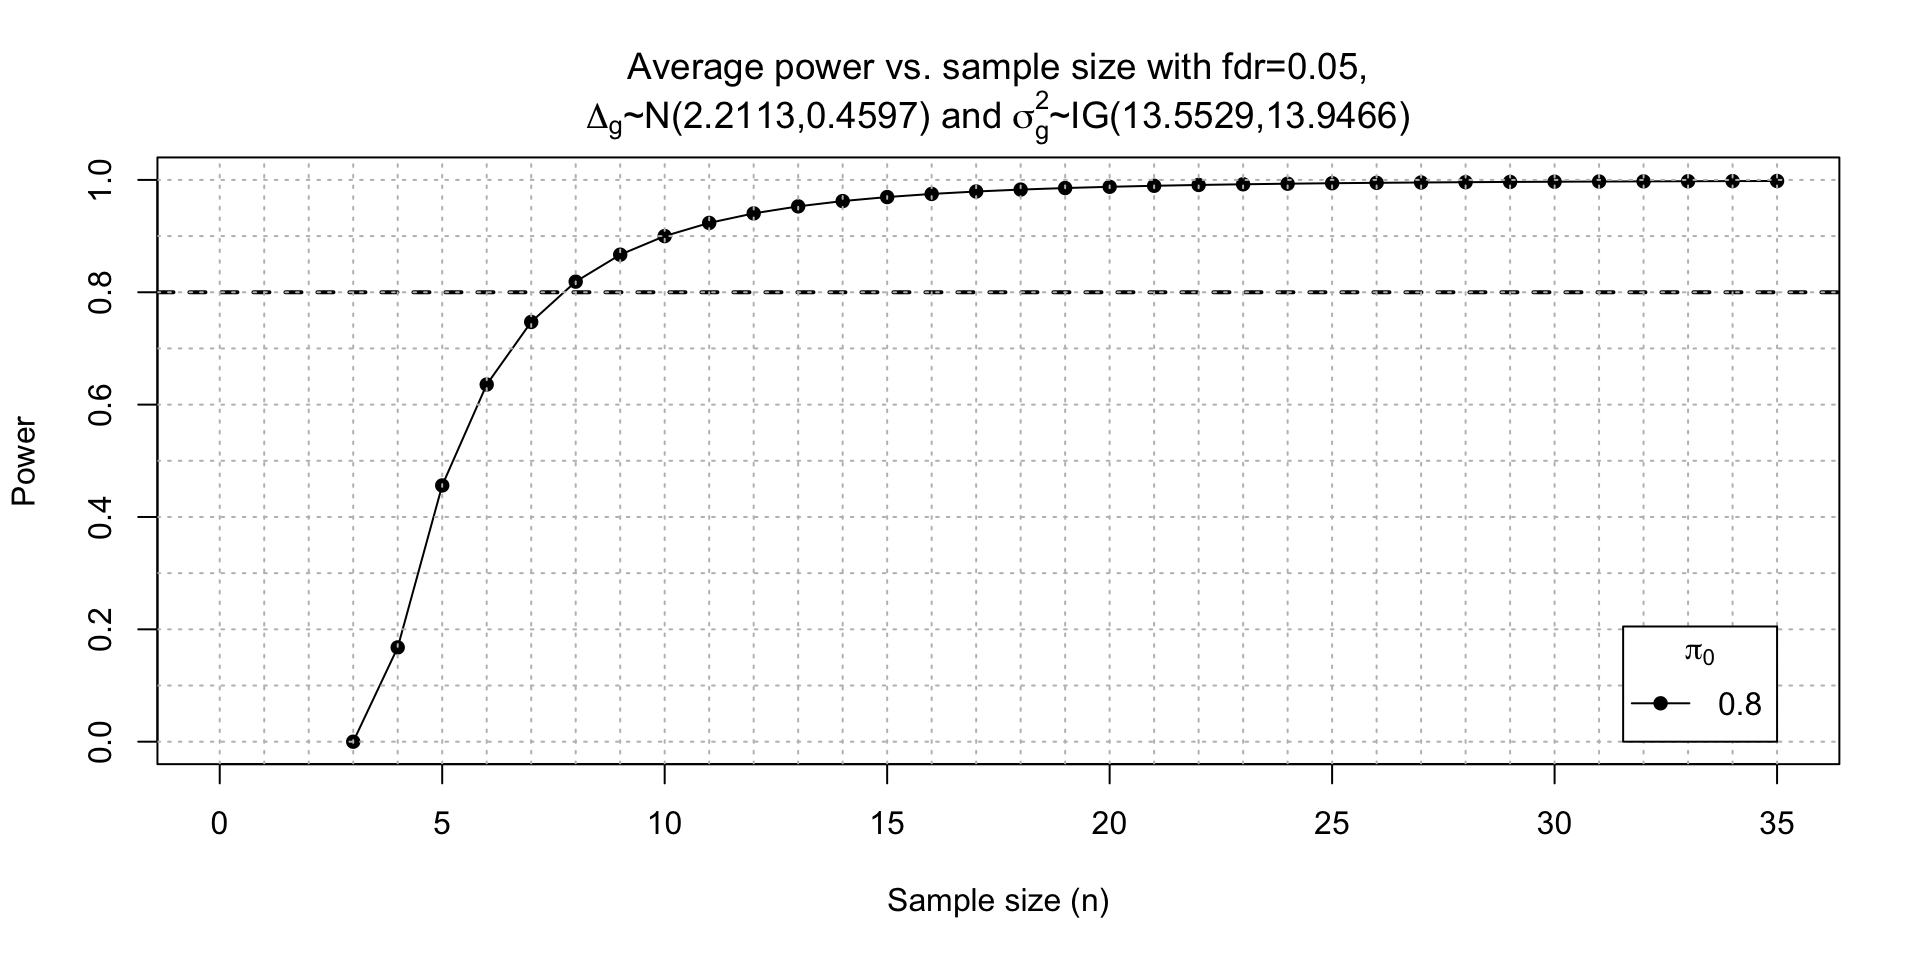
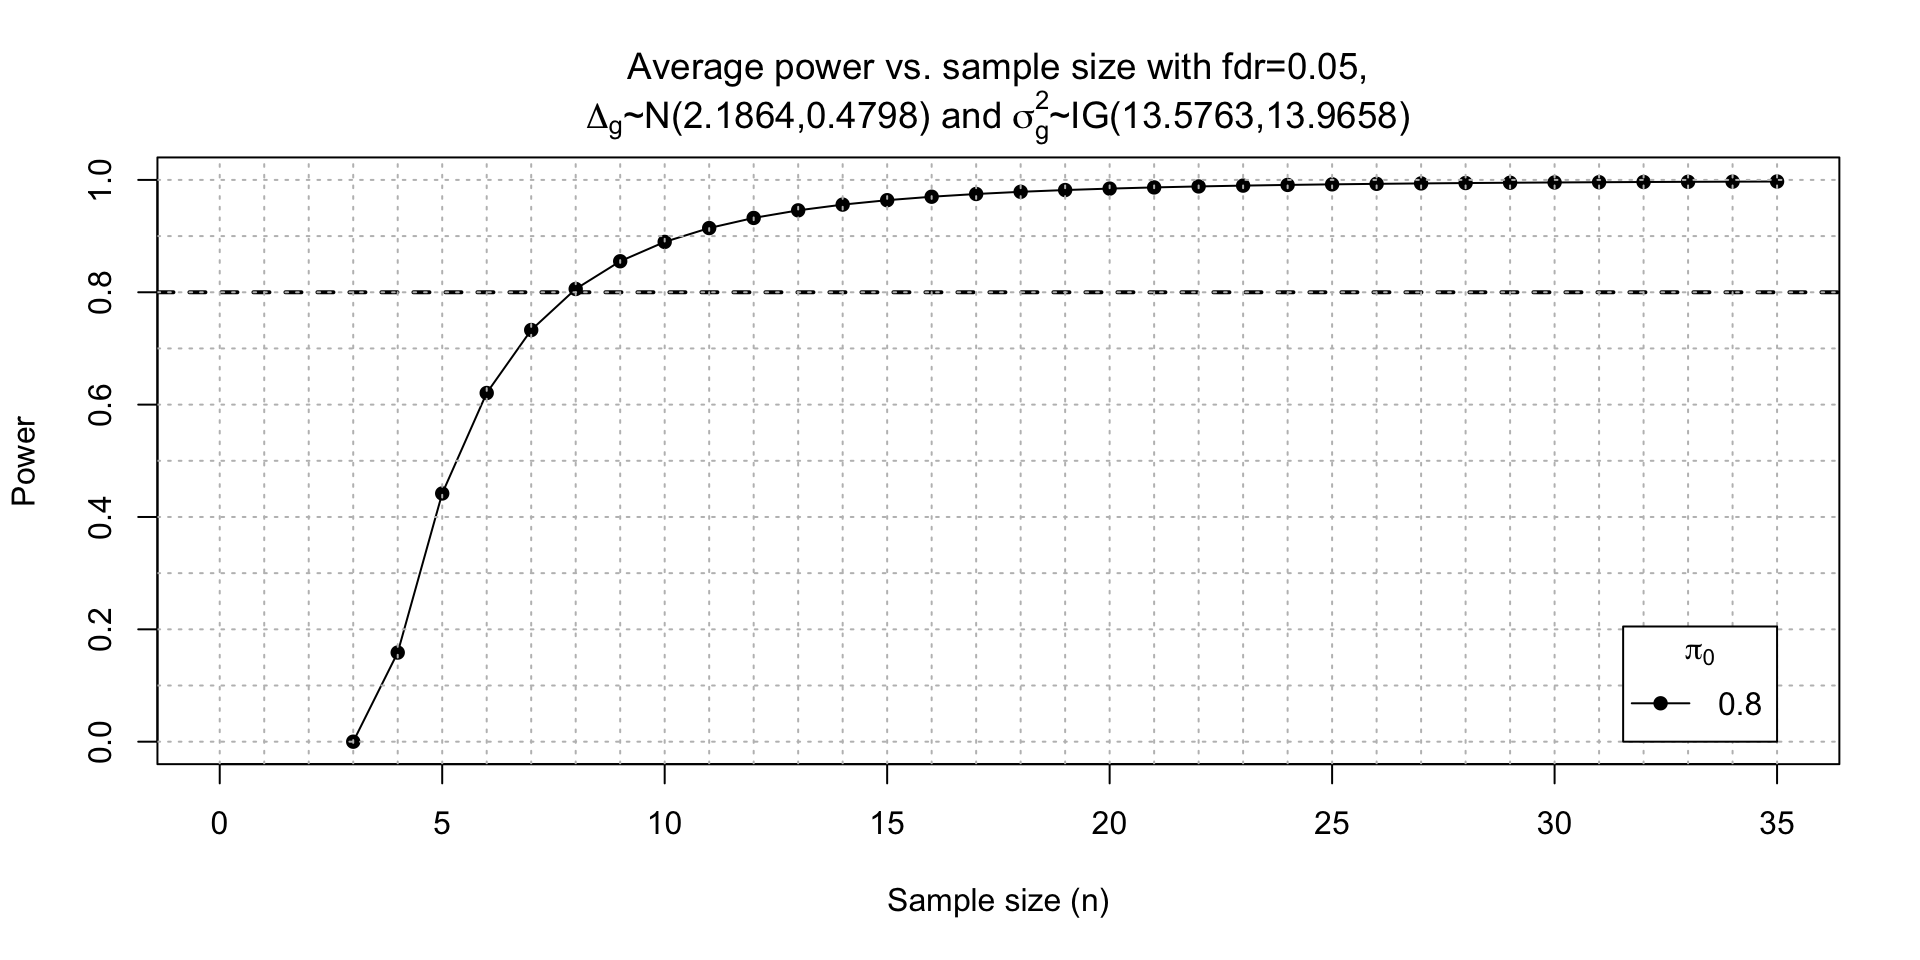
update rnaseq

diff --git a/2023_11_PowerSampleSize_OCTRIBERD_RNAseq/2023_11_pss_rnaseq.html b/2023_11_PowerSampleSize_OCTRIBERD_RNAseq/2023_11_pss_rnaseq.html
@@ -453,14 +453,25 @@ Jessica Minnier
 <li><p>Typically, transcriptomics: gene expression profiling of samples, using next-generation sequencing methods, reference genome</p></li>
 <li><p>RNA-seq can also examine alternative gene spliced transcripts, mutations, levels of other RNA besides messenger RNA, etc, but common aim is to evaluate gene expression measured by mRNA observed in sample tissue</p></li>
 <li><p>“Bulk RNA-seq” to distinguish from single cell RNA-seq, large populations of cells, mixed cell types</p></li>
-<li><p>Alternative method: microarrays, some of the following concepts still apply but distribution of expression measures is not counts, but more related to continuous normal distribution <span class="citation" data-cites="lee2002power">(<a href="#/thank-you" role="doc-biblioref" onclick="">Lee and Whitmore 2002</a>)</span></p></li>
+<li><p>Alternative method: microarrays, some of the following concepts still apply but distribution of expression measures is not count-based, but more related to continuous normal distribution <span class="citation" data-cites="lee2002power">(<a href="#/thank-you" role="doc-biblioref" onclick="">Lee and Whitmore 2002</a>)</span></p></li>
 </ul>
 </section>
 <section id="rna-seq-data-generation" class="slide level2 smaller">
 <h2>RNA-seq data generation</h2>
 <p>NGS or massively parallel sequencing: sample preparation, mRNA fragmentation, reverse transcription to complementary DNA, map cDNA to reference genome</p>
-
-<img data-src="Journal.pcbi.1004393.g002.png" alt="&quot;RNA-seq data generation. A typical RNA-seq experimental workflow involves the isolation of RNA from samples of interest, generation of sequencing libraries, use of a high-throughput sequencer to produce hundreds of millions of short paired-end reads, alignment of reads against a reference genome or transcriptome, and downstream analysis for expression estimation, differential expression, transcript isoform discovery, and other applications. Refer to S1 Table, S3 Table, and S7 Table for more details on the concepts depicted in this figure.&quot; Image taken from Figure 2 in Griffith, Malachi; Walker, Jason R.; Spies, Nicholas C.; Ainscough, Benjamin J.; Griffith, Obi L. (2015). &quot;Informatics for RNA Sequencing: A Web Resource for Analysis on the Cloud&quot;. PLOS Computational Biology. 11 (8): e1004393. doi:10.1371/journal.pcbi.1004393. ISSN 1553-7358." width="1100" class="r-stretch quarto-figure-center"><p><span class="citation" data-cites="griffith2015informatics">(<a href="#/thank-you" role="doc-biblioref" onclick="">Griffith et al. 2015</a>)</span></p>
+<div class="columns">
+<div class="column" style="width:50%;">
+<p><img data-src="Journal.pcbi.1004393.g002.png" alt="&quot;RNA-seq data generation. A typical RNA-seq experimental workflow involves the isolation of RNA from samples of interest, generation of sequencing libraries, use of a high-throughput sequencer to produce hundreds of millions of short paired-end reads, alignment of reads against a reference genome or transcriptome, and downstream analysis for expression estimation, differential expression, transcript isoform discovery, and other applications. Refer to S1 Table, S3 Table, and S7 Table for more details on the concepts depicted in this figure.&quot; Image taken from Figure 2 in Griffith, Malachi; Walker, Jason R.; Spies, Nicholas C.; Ainscough, Benjamin J.; Griffith, Obi L. (2015). &quot;Informatics for RNA Sequencing: A Web Resource for Analysis on the Cloud&quot;. PLOS Computational Biology. 11 (8): e1004393. doi:10.1371/journal.pcbi.1004393. ISSN 1553-7358." width="1100"></p>
+<p><span class="citation" data-cites="griffith2015informatics">(<a href="#/thank-you" role="doc-biblioref" onclick="">Griffith et al. 2015</a>)</span></p>
+</div><div class="column" style="width:50%;">
+<div class="quarto-figure quarto-figure-center">
+<figure>
+<p><a href="https://github.com/hbctraining/DGE_workshop_salmon_online/blob/master/lessons/02_DGE_count_normalization.md"><img data-src="normalization_methods_depth.png"></a></p>
+</figure>
+</div>
+<p><span class="citation" data-cites="meeta_mistry_2021_4783481">(<a href="#/thank-you" role="doc-biblioref" onclick="">Mistry et al. 2021</a>)</span></p>
+</div>
+</div>
 </section>
 <section id="what-does-the-data-look-like" class="slide level2">
 <h2>What does the data look like?</h2>
@@ -698,14 +709,13 @@ Jessica Minnier
 <p>Adapted from <code>ssizeRNA</code> <a href="https://cran.r-project.org/web/packages/ssizeRNA/vignettes/ssizeRNA.pdf">vignette</a> and Suppl Material S1 <span class="citation" data-cites="jeon2023statistical">Jeon et al. (<a href="#/thank-you" role="doc-biblioref" onclick="">2023</a>)</span></p>
 <p>Arguments for <code>ssize_single()</code> function, assuming all genes have the same characteristics:</p>
 <ul>
-<li><p>Total number of genes: <code>G = 10000</code></p></li>
-<li><p>Proportion of non-DE “null” genes: <code>pi0 = 0.8</code></p></li>
-<li><p>FDR level to control: <code>fdr = 0.05</code></p></li>
-<li><p>Desired average power to achieve: <code>power = 0.8</code></p></li>
-<li><p>Average read count for each gene in control group: <code>mu = 10</code></p></li>
-<li><p>Dispersion parameter for each gene: <code>disp = 0.1</code></p></li>
-<li><p>Fold change for each gene: <code>fc = 2</code></p>
-<p><img data-src="power1.png"></p></li>
+<li>Total number of genes: <code>G = 10000</code></li>
+<li>Proportion of non-DE “null” genes: <code>pi0 = 0.8</code></li>
+<li>FDR level to control: <code>fdr = 0.05</code></li>
+<li>Desired average power to achieve: <code>power = 0.8</code></li>
+<li>Average read count for each gene in control group: <code>mu = 10</code></li>
+<li>Dispersion parameter for each gene: <code>disp = 0.1</code></li>
+<li>Fold change for each gene: <code>fc = 2</code></li>
 </ul>
 <div class="cell">
 <div class="sourceCode cell-code" id="cb1"><pre class="sourceCode numberSource r number-lines code-with-copy"><code class="sourceCode r"><span id="cb1-1"><a href="#cb1-1"></a><span class="do">## Install ssizeRNA package if needed</span></span>
@@ -721,15 +731,13 @@ Jessica Minnier
 <span id="cb1-11"><a href="#cb1-11"></a>                      <span class="at">mu =</span> <span class="dv">10</span>,</span>
 <span id="cb1-12"><a href="#cb1-12"></a>                      <span class="at">disp =</span> <span class="fl">0.1</span>,</span>
 <span id="cb1-13"><a href="#cb1-13"></a>                      <span class="at">fc =</span> <span class="dv">2</span>)</span></code><button title="Copy to Clipboard" class="code-copy-button"><i class="bi"></i></button></pre></div>
-<div class="cell-output-display">
-<p><img data-src="2023_11_pss_rnaseq_files/figure-revealjs/unnamed-chunk-1-1.png" width="960"></p>
-</div>
+
 <div class="sourceCode cell-code" id="cb2"><pre class="sourceCode numberSource r number-lines code-with-copy"><code class="sourceCode r"><span id="cb2-1"><a href="#cb2-1"></a><span class="co"># Output variables:</span></span>
 <span id="cb2-2"><a href="#cb2-2"></a><span class="co"># ssize: sample sizes (for each treatment) at which desired power is first reached. size$ssize</span></span>
 <span id="cb2-3"><a href="#cb2-3"></a>size_out<span class="sc">$</span>ssize</span></code><button title="Copy to Clipboard" class="code-copy-button"><i class="bi"></i></button></pre></div>
 <div class="cell-output cell-output-stdout">
-<pre><code>     pi0 ssize     power
-[1,] 0.8    14 0.8409646</code></pre>
+<pre><code>     pi0 ssize   power
+[1,] 0.8    14 0.84172</code></pre>
 </div>
 <div class="sourceCode cell-code" id="cb4"><pre class="sourceCode numberSource r number-lines code-with-copy"><code class="sourceCode r"><span id="cb4-1"><a href="#cb4-1"></a><span class="co"># power: power calculations with corresponding sample sizes.</span></span>
 <span id="cb4-2"><a href="#cb4-2"></a>size_out<span class="sc">$</span>power</span></code><button title="Copy to Clipboard" class="code-copy-button"><i class="bi"></i></button></pre></div>
@@ -737,40 +745,40 @@ Jessica Minnier
 <pre><code>       n       0.8
  [1,]  3 0.0000000
  [2,]  4 0.0000000
- [3,]  5 0.0068929
- [4,]  6 0.1018165
- [5,]  7 0.2427458
- [6,]  8 0.3804685
- [7,]  9 0.5003935
- [8,] 10 0.6001694
- [9,] 11 0.6814440
-[10,] 12 0.7468835
-[11,] 13 0.7992500
-[12,] 14 0.8409646
-[13,] 15 0.8741228
-[14,] 16 0.9004324
-[15,] 17 0.9212803
-[16,] 18 0.9377883
-[17,] 19 0.9508470
-[18,] 20 0.9611679
-[19,] 21 0.9693260
-[20,] 22 0.9757712
-[21,] 23 0.9808592
-[22,] 24 0.9848778
-[23,] 25 0.9880495
-[24,] 26 0.9905527
-[25,] 27 0.9925288
-[26,] 28 0.9940891
-[27,] 29 0.9953209
-[28,] 30 0.9962937
-[29,] 31 0.9970626
-[30,] 32 0.9976701
-[31,] 33 0.9981504
-[32,] 34 0.9985306
-[33,] 35 0.9988314</code></pre>
+ [3,]  5 0.0067881
+ [4,]  6 0.1014734
+ [5,]  7 0.2424768
+ [6,]  8 0.3804081
+ [7,]  9 0.5005572
+ [8,] 10 0.6005469
+ [9,] 11 0.6819760
+[10,] 12 0.7475309
+[11,] 13 0.7999683
+[12,] 14 0.8417200
+[13,] 15 0.8748821
+[14,] 16 0.9011759
+[15,] 17 0.9219926
+[16,] 18 0.9384537
+[17,] 19 0.9514649
+[18,] 20 0.9617326
+[19,] 21 0.9698364
+[20,] 22 0.9762288
+[21,] 23 0.9812645
+[22,] 24 0.9852362
+[23,] 25 0.9883635
+[24,] 26 0.9908269
+[25,] 27 0.9927668
+[26,] 28 0.9942947
+[27,] 29 0.9954979
+[28,] 30 0.9964456
+[29,] 31 0.9971925
+[30,] 32 0.9977808
+[31,] 33 0.9982447
+[32,] 34 0.9986107
+[33,] 35 0.9988993</code></pre>
 </div>
 </div>
-</section>
+<img data-src="2023_11_pss_rnaseq_files/figure-revealjs/unnamed-chunk-1-1.png" width="960" class="r-stretch"></section>
 <section id="typical-inputs" class="slide level2">
 <h2>Typical inputs</h2>
 <ul>
@@ -786,8 +794,14 @@ Jessica Minnier
 <ul>
 <li><a href="https://www.bioconductor.org/packages/release/bioc/html/RnaSeqSampleSize.html">RnaSeqSampleSize</a> Bioconductor/R package and <a href="https://cqs-vumc.shinyapps.io/rnaseqsamplesizeweb/">web/Shiny app</a></li>
 </ul>
-
-<img data-src="webapp.png" class="r-stretch"></section>
+<div class="columns">
+<div class="column" style="width:50%;">
+<p><img data-src="webapp1.png"></p>
+</div><div class="column" style="width:50%;">
+<p><img data-src="webapp2.png"></p>
+</div>
+</div>
+</section>
 <section id="pilot-data-or-public-data" class="slide level2">
 <h2>Pilot data or public data</h2>
 <ul>
@@ -850,46 +864,46 @@ Jessica Minnier
 <span id="cb13-2"><a href="#cb13-2"></a><span class="co"># ssize: sample sizes (for each treatment) at which desired power is first reached. size$ssize</span></span>
 <span id="cb13-3"><a href="#cb13-3"></a>size_out<span class="sc">$</span>ssize</span></code><button title="Copy to Clipboard" class="code-copy-button"><i class="bi"></i></button></pre></div>
 <div class="cell-output cell-output-stdout">
-<pre><code>     pi0 ssize    power
-[1,] 0.8     8 0.818919</code></pre>
+<pre><code>     pi0 ssize     power
+[1,] 0.8     8 0.8058418</code></pre>
 </div>
 <div class="sourceCode cell-code" id="cb15"><pre class="sourceCode numberSource r number-lines code-with-copy"><code class="sourceCode r"><span id="cb15-1"><a href="#cb15-1"></a><span class="co"># power: power calculations with corresponding sample sizes.</span></span>
 <span id="cb15-2"><a href="#cb15-2"></a>size_out<span class="sc">$</span>power</span></code><button title="Copy to Clipboard" class="code-copy-button"><i class="bi"></i></button></pre></div>
 <div class="cell-output cell-output-stdout">
 <pre><code>       n       0.8
  [1,]  3 0.0000000
- [2,]  4 0.1678090
- [3,]  5 0.4561294
- [4,]  6 0.6357722
- [5,]  7 0.7471394
- [6,]  8 0.8189190
- [7,]  9 0.8669100
- [8,] 10 0.9000134
- [9,] 11 0.9234437
-[10,] 12 0.9404081
-[11,] 13 0.9529280
-[12,] 14 0.9623281
-[13,] 15 0.9694955
-[14,] 16 0.9750324
-[15,] 17 0.9793642
-[16,] 18 0.9827908
-[17,] 19 0.9855306
-[18,] 20 0.9877406
-[19,] 21 0.9895391
-[20,] 22 0.9910152
-[21,] 23 0.9922360
-[22,] 24 0.9932519
-[23,] 25 0.9941036
-[24,] 26 0.9948219
-[25,] 27 0.9954312
-[26,] 28 0.9959506
-[27,] 29 0.9963957
-[28,] 30 0.9967794
-[29,] 31 0.9971113
-[30,] 32 0.9973998
-[31,] 33 0.9976516
-[32,] 34 0.9978720
-[33,] 35 0.9980660</code></pre>
+ [2,]  4 0.1586487
+ [3,]  5 0.4418509
+ [4,]  6 0.6207092
+ [5,]  7 0.7328030
+ [6,]  8 0.8058418
+ [7,]  9 0.8552138
+ [8,] 10 0.8896437
+ [9,] 11 0.9142904
+[10,] 12 0.9323309
+[11,] 13 0.9457984
+[12,] 14 0.9560237
+[13,] 15 0.9639039
+[14,] 16 0.9700609
+[15,] 17 0.9749302
+[16,] 18 0.9788252
+[17,] 19 0.9819704
+[18,] 20 0.9845356
+[19,] 21 0.9866451
+[20,] 22 0.9883933
+[21,] 23 0.9898532
+[22,] 24 0.9910815
+[23,] 25 0.9921199
+[24,] 26 0.9930043
+[25,] 27 0.9937613
+[26,] 28 0.9944132
+[27,] 29 0.9949764
+[28,] 30 0.9954665
+[29,] 31 0.9958938
+[30,] 32 0.9962684
+[31,] 33 0.9965981
+[32,] 34 0.9968894
+[33,] 35 0.9971476</code></pre>
 </div>
 </div>
 <img data-src="2023_11_pss_rnaseq_files/figure-revealjs/unnamed-chunk-2-1.png" width="960" class="r-stretch"></section>
@@ -925,7 +939,7 @@ Jessica Minnier
 </section>
 <section id="conclusions" class="slide level2">
 <h2>Conclusions</h2>
-<h3 id="important-factors">Important Factors</h3>
+<h3 id="important-factors-bulk-rna-seq-deg">Important Factors (bulk RNA-seq DEG)</h3>
 <ul>
 <li><p>Distributions: average (or distribution of) read counts, as well as average (or distribution of, or maximum) dispersion</p></li>
 <li><p>Proportion of differentially expressed genes</p></li>
